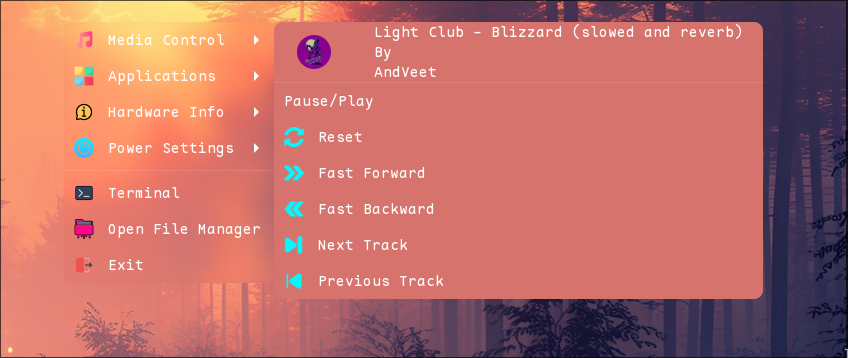
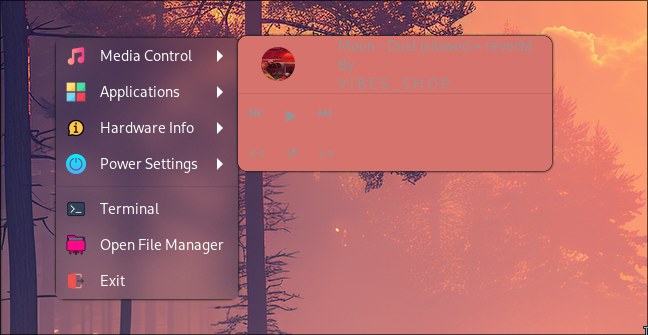
Updated readme

diff --git a/config/style.css b/config/style.css
@@ -1,8 +1,5 @@
-@import url("file:///home/naturalcapsule/.cache/wal/colors-waybar.css");
-
 .window {
-    color: @color1;
-    background-color: @color4;
+    color: purple;
 }
 
 .sysInfo {
@@ -12,22 +9,22 @@
 .Media-Title{
 
 }
-
+ 
 .Media-Image {
-
+ 
 }
-
+ 
 .menu-item-hover {
     color: white;
-    background-color: @color1;
+    background-color: black;
     transition: all 0.3s cubic-bezier(.55,-0.68,.48,1.682);
-
 }
+ 
 .Scroll-Window {
-    background-color: @color4;
-
+    /* transition: all 0.3s cubic-bezier(.55,-0.68,.48,1.682); */
+    background-color: black; 
 }
-
+ 
 .Submenu{
-    background-color: @color4;
-}
+    /* transition: all 0.3s cubic-bezier(.55,-0.68,.48,1.682); */
+    background-color: white;

diff --git a/readme.md b/readme.md
@@ -54,6 +54,12 @@ and
    ```
 
 3. **Launch**
+   If you don't want keyboard support launch with this command (this will make the app show at your screen position)
+   ```bash
+   GDK_BACKEND=x11 python app.py
+   ```
+
+   If you want keyboard support launch it with this command
    ```bash
    GDK_BACKEND=wayland python app.py
    ```
